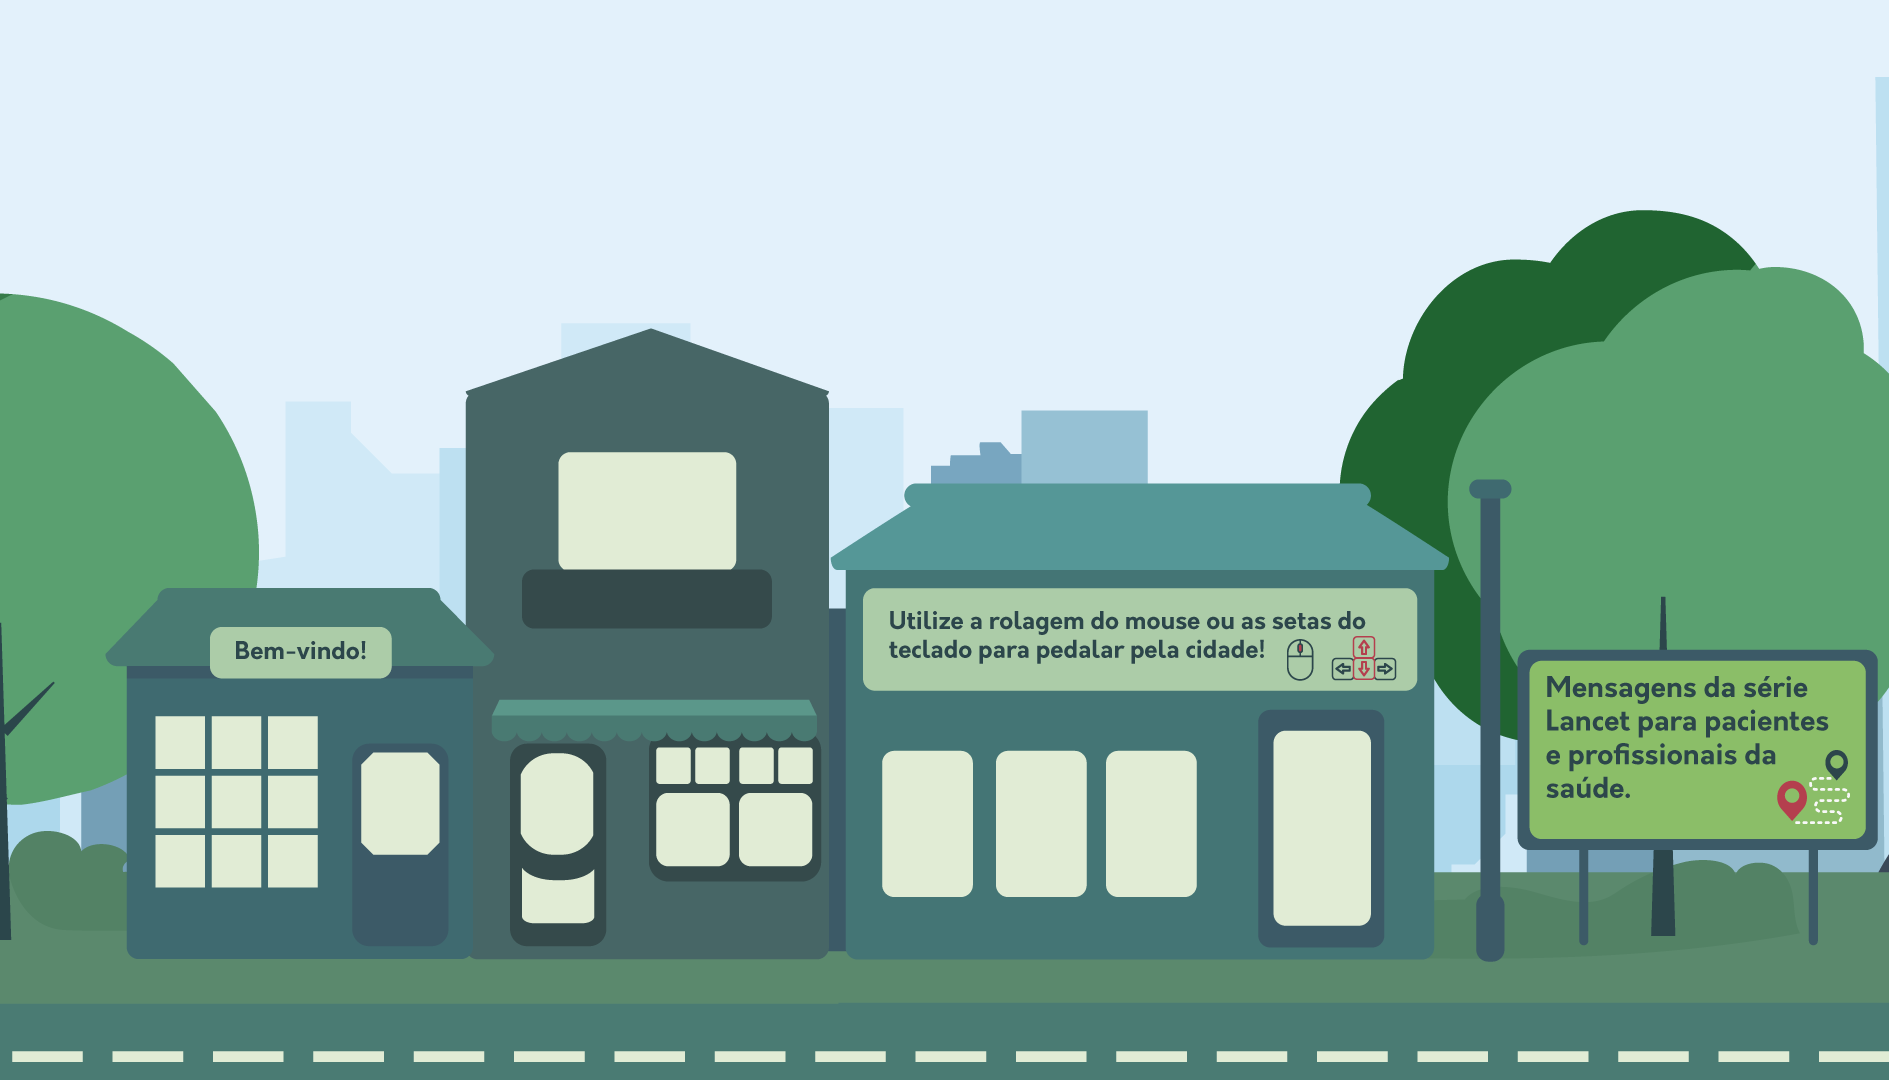
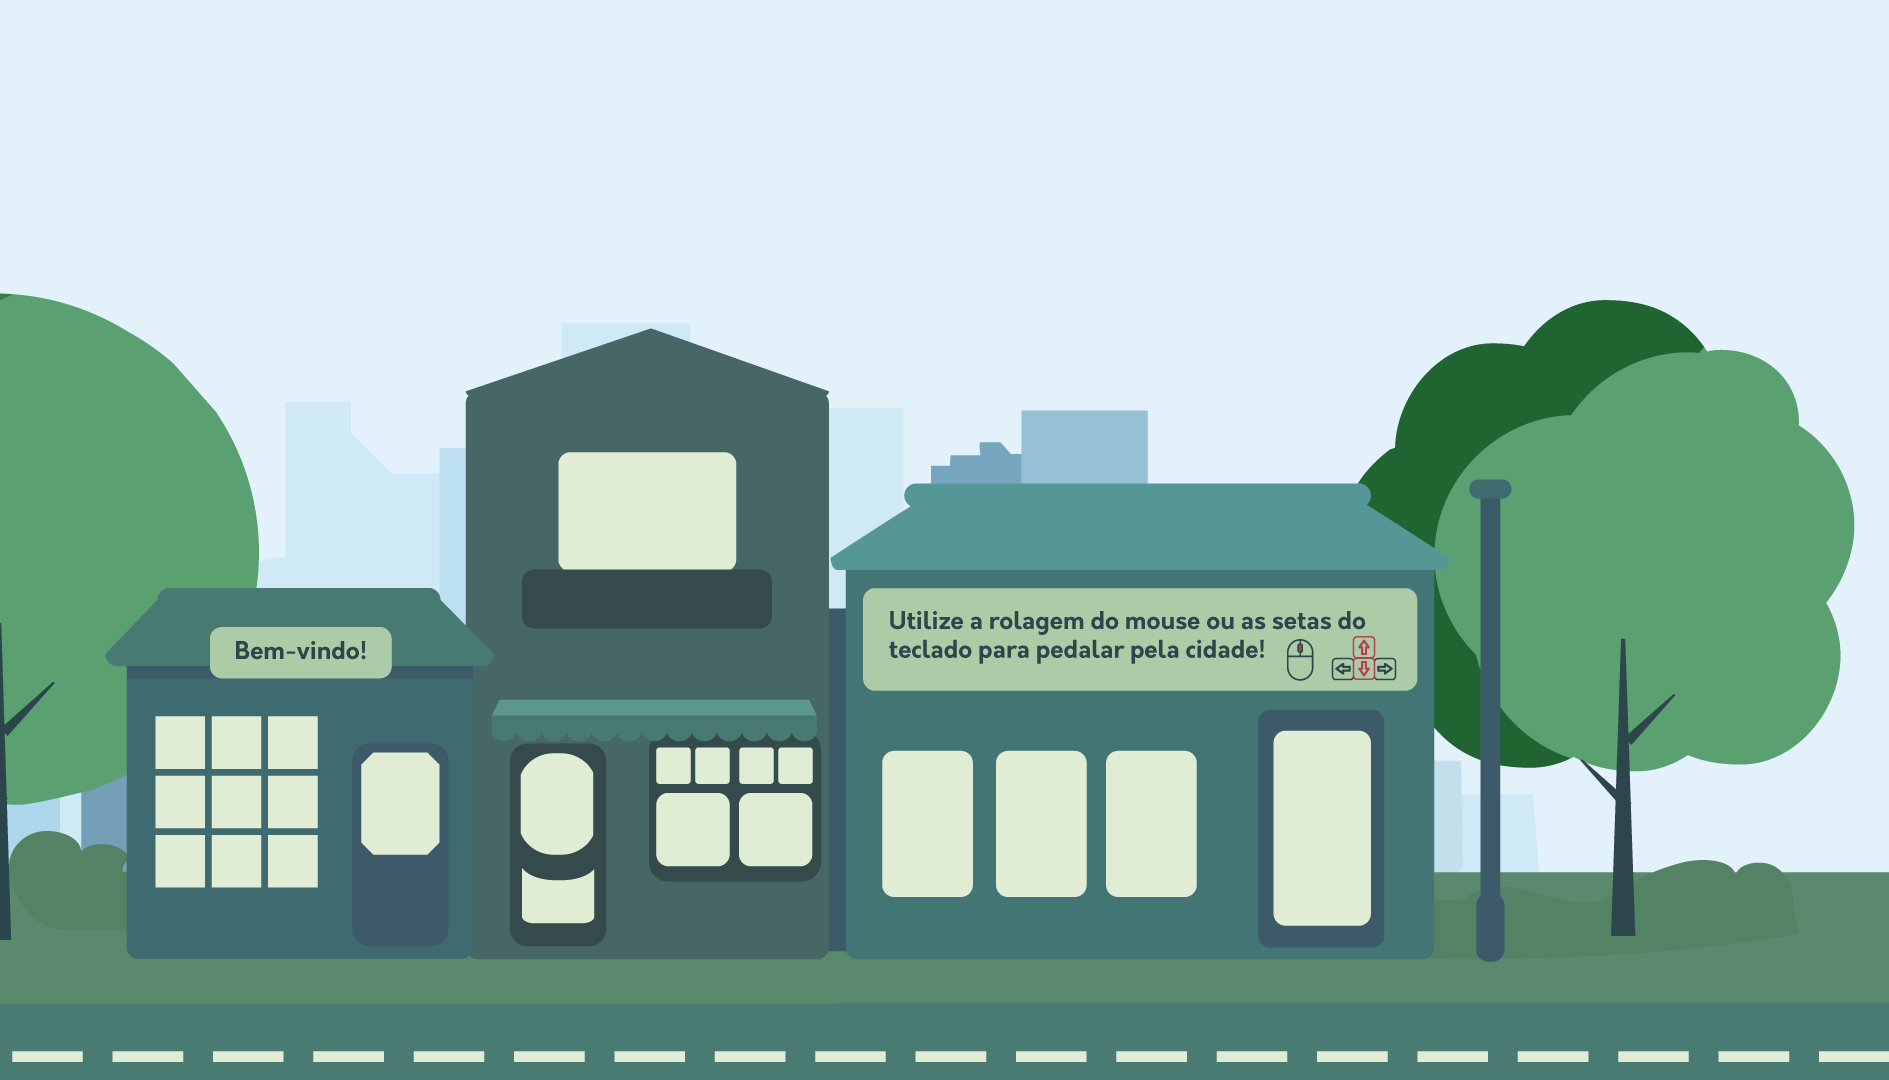
novo bg e posicionamento dos elemntos

Changed region(s): [[0.6871, 0.0611, 1.0, 0.8861]]

diff --git a/style/style.css b/style/style.css
@@ -132,7 +132,7 @@ body {
 /*BALÕES DE INTERAÇÃO*/
 .balao-luiziane{
     position: absolute;
-    left: 1263px;
+    left: 8197px;
     top: calc(100vh - 217px);
     height: 55px;
     width: 61px;
@@ -143,7 +143,7 @@ body {
 
 .balao-rodiney{
     position: absolute;
-    left: 1745px;
+    left: 8678px;
     top: calc(100vh - 240px);
     height: 55px;
     width: 61px;
@@ -155,7 +155,7 @@ body {
 
 .balao-glaucyanyh{
     position: absolute;
-    left: 2025px;
+    left: 8952px;
     top: calc(100vh - 215px);
     height: 55px;
     width: 61px;
@@ -179,7 +179,7 @@ body {
 
 .balao-manu{
     position: absolute;
-    left: -227px;
+    left: -1616px;
     top: calc(100vh - 281px);
     height: 55px;
     width: 61px;
@@ -191,7 +191,7 @@ body {
 
 .luiziane{
     position: absolute;
-    left: 1305px;
+    left: 8240px;
     top: calc(100vh - 165px);
     height: 104px;
     width: 59px;
@@ -213,7 +213,7 @@ body {
 }
 .rodiney{
     position: absolute;
-    left: 1794px;
+    left: 8733px;
     top: calc(100vh - 183px);
     height: 102px;
     width: 37px;
@@ -224,7 +224,7 @@ body {
 }
 .glaucyanyh{
     position: absolute;
-    left: 2086px;
+    left: 9017px;
     top: calc(100vh - 165px);
     height: 104px;
     width: 40px;
@@ -235,7 +235,7 @@ body {
 }
 .manu{
     position: absolute;
-    left: -168px;
+    left: -1557px;
     top: calc(101vh - 232px);
     width: auto;
     height: 84px;
@@ -252,23 +252,12 @@ body {
     background-repeat: no-repeat;
 
 }
-.plateia{
-    position: absolute;
-    left: 9010px;
-    top: calc(100vh - 160px);
-    height: 73px;
-    width: auto;
-    z-index: 1;
-    background-size: 100% !important;
-    background-repeat: no-repeat;
-
-}
 .menino{
     width: 38px;
     position: absolute;
     height: auto;
     top: calc(100vh - 153px);
-    left: 5765px;
+    left: 4362px;
 
 }
 /*ELEMENTOS DO CENARIO*/
@@ -276,7 +265,7 @@ body {
 .passaro {
     position: absolute;
     height: 67px;
-    left: 1698px;
+    left: 8628px;
     top: calc(100vh - 116px);
     background-size: 100% !important;
     width: 45px;
@@ -287,7 +276,7 @@ body {
 .passarin {
     position: absolute;
     height: 67px;
-    left: 1656px;
+    left: 8584px;
     top: calc(100vh - 116px);
     background-size: 100% !important;
     width: 45px;
@@ -327,7 +316,7 @@ body {
     position: absolute;
     height: auto;
     top: calc(100vh - 256px);
-    left: 2785px;
+    left: 1385px;
 
 }
 .importante2{
@@ -335,7 +324,7 @@ body {
     position: absolute;
     height: auto;
     top: calc(100vh - 294px);
-    left: 5332px;
+    left: 3924px;
 
 }
 
@@ -343,7 +332,7 @@ body {
 /*OUTDOORS1*/
 .outdoor11 {
     position: absolute;
-    left: -3262px;
+    left: -5789px;
     top: calc(100vh - 471px);
     width: auto;
     height: 426px;
@@ -356,7 +345,7 @@ body {
 .texto1{
     position: absolute;
     height: 409px;
-    left: -2379px;
+    left: -4901px;
     top: calc(100vh - 531px);
     width: 390px;
     background-repeat: no-repeat;
@@ -365,7 +354,7 @@ body {
 .texto2 {
     position: absolute;
     height: 413px;
-    left: -1912px;
+    left: -4434px;
     top: calc(100vh - 531px);
     width: 390px;
     background-repeat: no-repeat;
@@ -374,7 +363,7 @@ body {
 .texto3 {
     position: absolute;
     height: 413px;
-    left: -1467px;
+    left: -3991px;
     top: calc(100vh - 531px);
     width: 403px;
     background-repeat: no-repeat;
@@ -383,7 +372,7 @@ body {
 .texto4 {
     position: absolute;
     height: 409px;
-    left: -1038px;
+    left: -3560px;
     top: calc(100vh - 531px);
     width: 403px;
     background-repeat: no-repeat;
@@ -395,7 +384,7 @@ body {
 /*OUTDOORS2*/
 .outdoor21 {
     position: absolute;
-    left: -651px;
+    left: -3177px;
     top: calc(100vh - 471px);
     width: auto;
     height: 426px;
@@ -404,21 +393,21 @@ body {
 /*HOLOGRAMAS*/
 .holograma1 {
     position: absolute;
-    left: -2331px;
+    left: -3344px;
     top: calc(100vh - 545px);
     width: auto;
     height: 417px;
 }
 .holograma2 {
     position: absolute;
-    left: -1561px;
+    left: -2564px;
     top: calc(100vh - 545px);
     width: auto;
     height: 417px;
 }
 .holograma3 {
     position: absolute;
-    left: -1119px;
+    left: -2139px;
     top: calc(100vh - 545px);
     width: auto;
     height: 421px;
@@ -427,7 +416,7 @@ body {
 /*METEORO*/
 .meteoro{
     position: absolute;
-    left: -400px;
+    left: -1729px;
     top: calc(100vh - 491px);
     width: auto;
     height: 452px;
@@ -437,7 +426,7 @@ body {
 /*PALCO*/
 .palco{
     position: absolute;
-    left: -224px;
+    left: -1616px;
     top: calc(100vh - 339px);
     width: auto;
     height: 253px;

diff --git a/js/main-info.js b/js/main-info.js
@@ -117,7 +117,7 @@ function mudaOutdoor2(classe,num1,denominador,num2){
     classe.each(function(){
         var itemLeft = $(this).offset().left;
         console.log(itemLeft);
-          if (scroll-offset > itemLeft && scroll-fim<itemLeft) {
+          if (scroll+offset > itemLeft && scroll-fim<itemLeft) {
             $(this).addClass(animationClass);
             $("#outdoor2").css("display", "none");
         
@@ -148,18 +148,19 @@ function animeHolograma(classe,num1,denominador,num2){
 /*ANIMAÇÃO DOS TEXTOS*/
 
  function animeTexto(classe, num1, denominador,num2){
-   var offset = $(window).width()*num1/denominador,
+  var offset = $(window).width()*num1/denominador,
     fim = $(window).width()*num2/denominador;
     classe.each(function(){
         var itemLeft = $(this).offset().left;
         console.log(itemLeft);
-          if (scroll-offset > itemLeft && scroll-fim<itemLeft) {
-            $(this).addClass(animationClass);
-
+          if (scroll+offset > itemLeft && scroll+fim<itemLeft) {
+             $(this).addClass(animationClass);
+        
           }else{
             $(this).removeClass(animationClass);
           }
      })
+
 }
 
   // FUNÇÕES QUE GERA A ANIMAÇÃO DO METEORO EXPLODINDO E SURGINDO PALCO COM A MANU
@@ -205,17 +206,17 @@ function animeManu(classe, numerador, denominador){
 
  
 
-  mudaOutdoor1(target,3.5,4,1);
-  animeTexto(target2,0.5,4,3);
-  animeTexto(target3,3,4,6)
-  animeTexto(target4,6,4,8);
-  animeTexto(target5,8,4,10.5);
-  mudaOutdoor2(target6, 11.2, 4,14);
-  animeHolograma(target7,9,4,12);
-  animeHolograma(target8, 13, 4,15);
-  animeHolograma(target9, 15.5, 4,18);
-  animeMeteoro(target10,19,4);
-  setTimeout(function(){animePalco(target11,19,4);}, 2600);
-  setTimeout(function(){animeManu(target12,19,4);}, 2600);
+  mudaOutdoor1(target,15,4,12.5);
+  animeTexto(target2,11,4,9);
+  animeTexto(target3,8,4,6)
+  animeTexto(target4,5.5,4,4);
+  animeTexto(target5,3.5,4,1);
+  mudaOutdoor2(target6, 0.6, 4,2.5);
+  animeHolograma(target7,2,4,4.5);
+  animeHolograma(target8, 6, 4,8);
+  animeHolograma(target9, 9, 4,11);
+  animeMeteoro(target10,11,4);
+  setTimeout(function(){animePalco(target11,11,4);}, 2700);
+  setTimeout(function(){animeManu(target12,11,4);}, 2700);
 
 }

diff --git a/page.html b/page.html
@@ -431,9 +431,6 @@
 
         <!-- SESSÃO - Nº 4 -->
         <img src="./imgs/bg/s4.png" class="background" />
-        <!--PLATEIA-->
-        <img class="plateia" src="imgs/personagens/plateia.png">
-        <!--METORO-->
         <section class="anime-meteoro">
 
             <img id="meteoro" class="meteoro" src="imgs/efeitoVisual/meteoro.gif">
